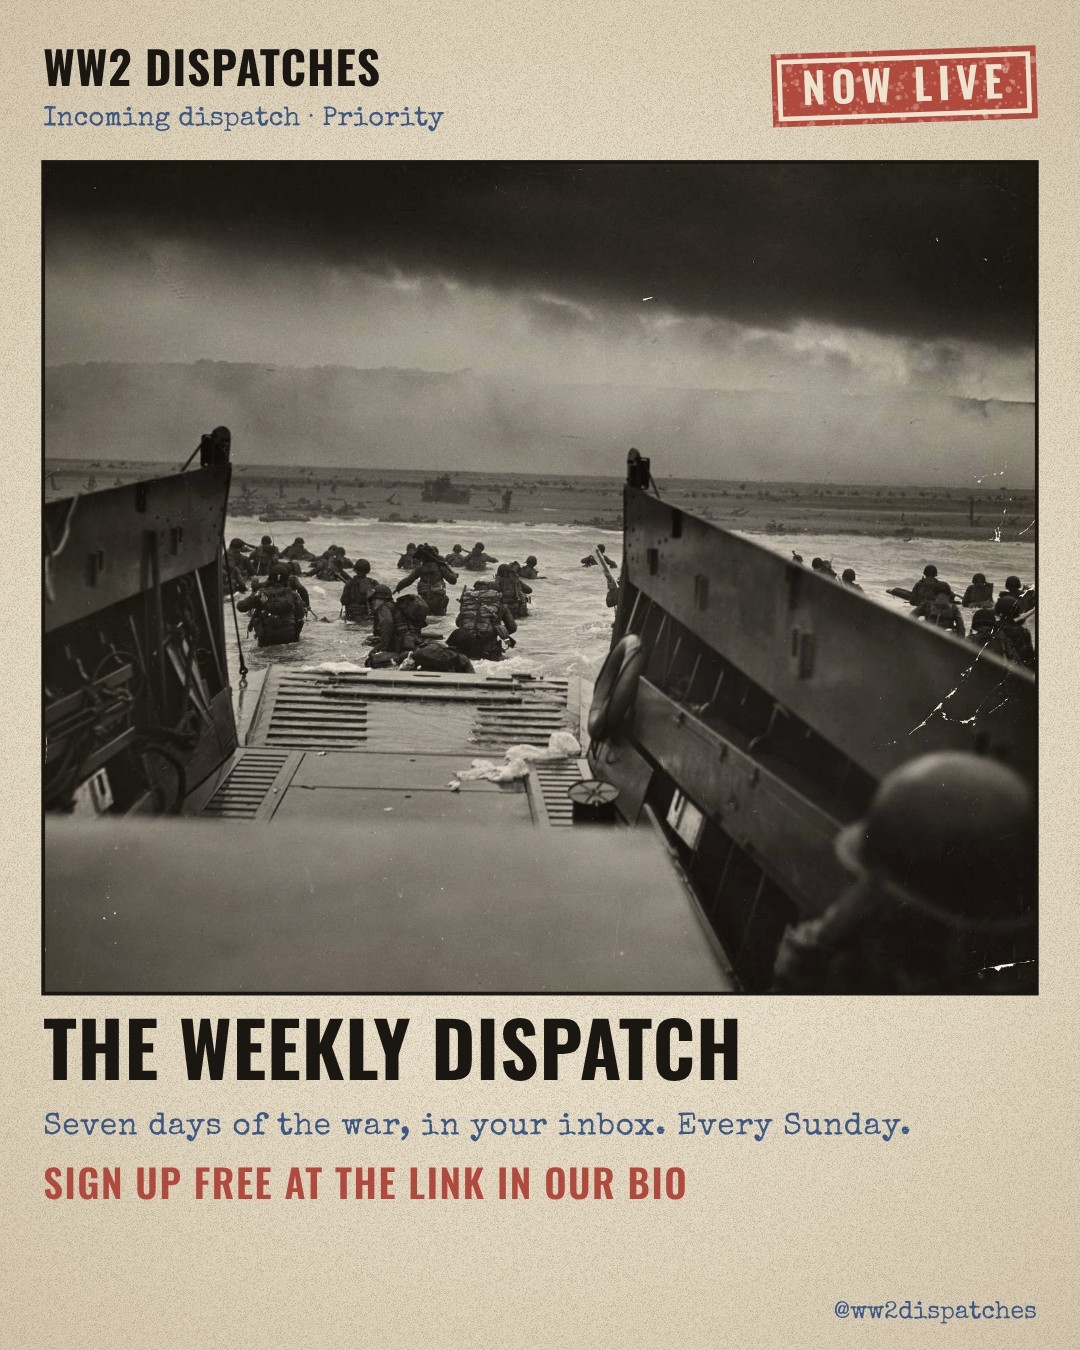
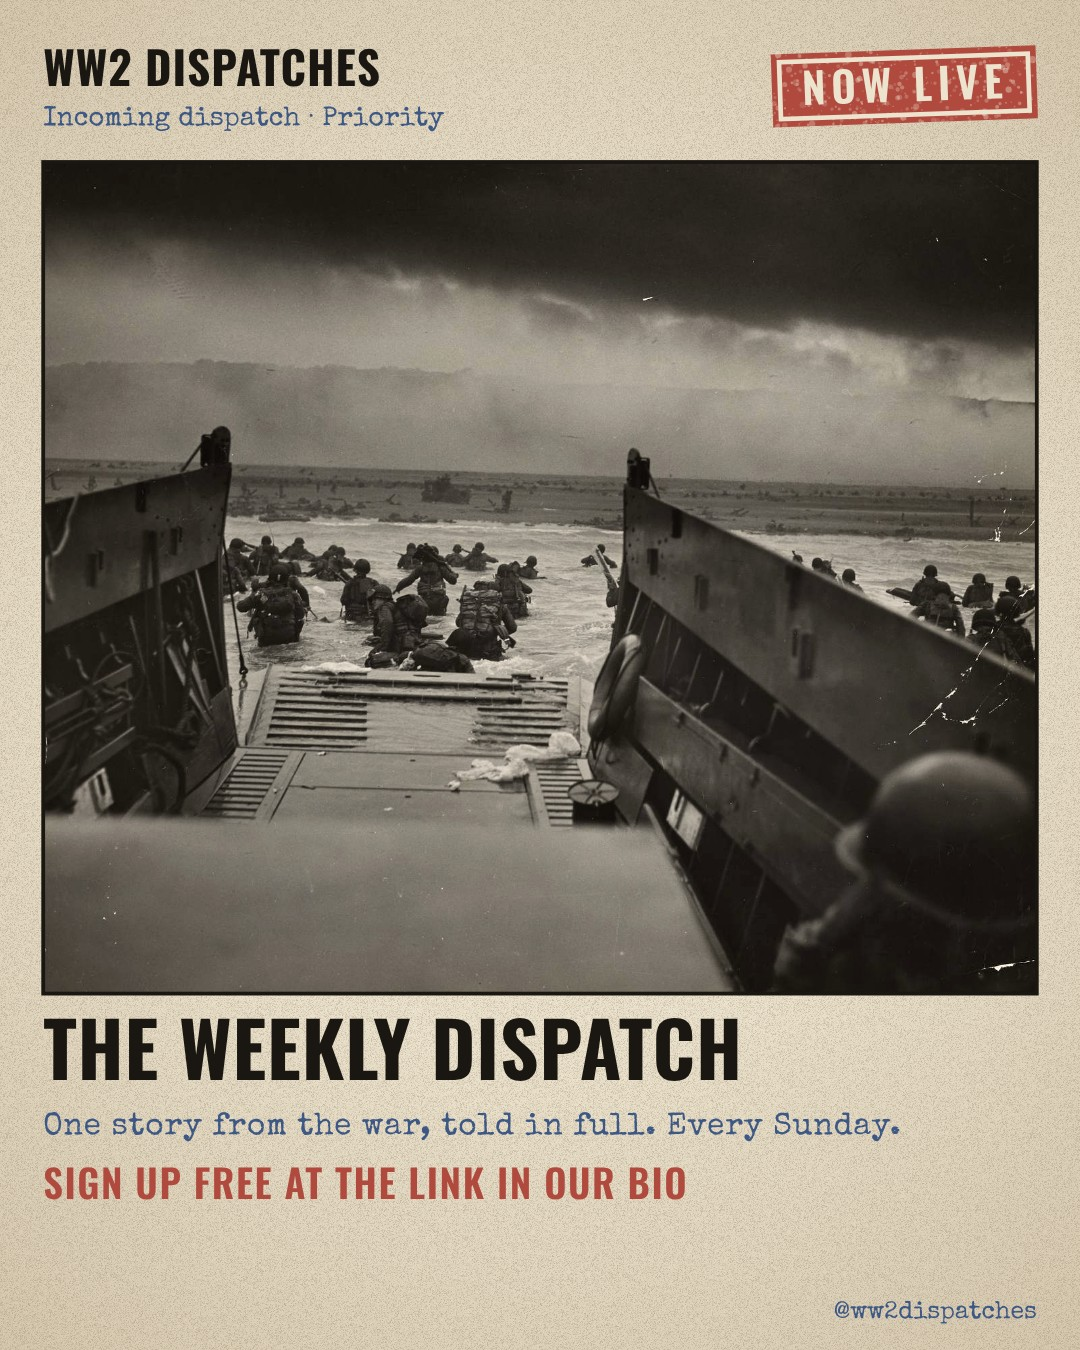
Launch announcement reworded for the article newsletter; card tagline updated
Claude-Session: https://claude.ai/code/session_01GNhz9vd5dFyQ81V627kSGq

Changed region(s): [[0.0306, 0.8089, 0.8556, 0.84]]

diff --git a/renderer/launch.js b/renderer/launch.js
@@ -33,7 +33,7 @@ function drawLaunch(photoUrl, W, H) {
     // bottom band
     let y=top+ph+8*u;
     ctx.fillStyle=INK; ctx.font=`700 ${7*u}px Oswald`; ctx.letterSpacing=`${.01*7*u}px`; ctx.fillText("THE WEEKLY DISPATCH",m,y);
-    y+=5*u; ctx.fillStyle=NAVY; ctx.font=`400 ${2.9*u}px "Special Elite"`; ctx.fillText("Seven days of the war, in your inbox. Every Sunday.",m,y);
+    y+=5*u; ctx.fillStyle=NAVY; ctx.font=`400 ${2.9*u}px "Special Elite"`; ctx.fillText("One story from the war, told in full. Every Sunday.",m,y);
     y+=6*u; ctx.fillStyle=RED; ctx.font=`600 ${3.6*u}px Oswald`; ctx.letterSpacing=`${.04*3.6*u}px`; ctx.fillText("SIGN UP FREE AT THE LINK IN OUR BIO",m,y);
     ctx.textAlign="right"; ctx.fillStyle=NAVY; ctx.font=`400 ${2.3*u}px "Special Elite"`; ctx.letterSpacing="0px";
     ctx.fillText("@ww2dispatches",W-m,H-(H/W>1.1?3:6)*u);
